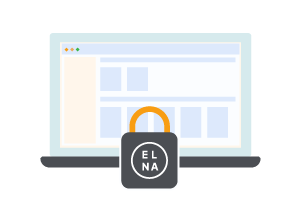
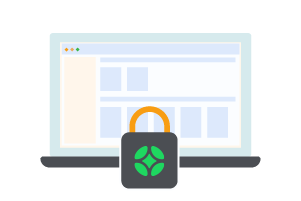
image and button ui updated

Changed region(s): [[0.4186, 0.6866, 0.5681, 0.8955]]

diff --git a/src/components/MySpace/Profile.tsx b/src/components/MySpace/Profile.tsx
@@ -8,7 +8,10 @@ import {
   useGetUserProfile,
   useUpdateUserProfile,
 } from "hooks/reactQuery/useUser";
-import { useIsDeveloper, useGetUserRequest } from "hooks/reactQuery/useDeveloper";
+import {
+  useIsDeveloper,
+  useGetUserRequest,
+} from "hooks/reactQuery/useDeveloper";
 import { Button, Form, Badge } from "react-bootstrap";
 import FormikInput from "components/common/FormikInput";
 import { Trans, useTranslation } from "react-i18next";
@@ -32,11 +35,15 @@ import { QUERY_KEYS } from "src/constants/query";
 function Profile() {
   const { t } = useTranslation();
   const wallet = useWallet();
-  const { data: userProfile, isFetching: isUserProfileLoading } = useGetUserProfile(wallet?.principalId);
-  const { mutate: addUserProfile, isPending: isAddProfileLoading } = useAddUserProfile();
-  const { mutate: updateProfile, isPending: isUpdateProfileLoading } = useUpdateUserProfile();
+  const { data: userProfile, isFetching: isUserProfileLoading } =
+    useGetUserProfile(wallet?.principalId);
+  const { mutate: addUserProfile, isPending: isAddProfileLoading } =
+    useAddUserProfile();
+  const { mutate: updateProfile, isPending: isUpdateProfileLoading } =
+    useUpdateUserProfile();
   const { data: isDeveloper, isFetching: isLoading } = useIsDeveloper();
-  const { data: userRequest, isFetching: isUserRequestLoading } = useGetUserRequest();
+  const { data: userRequest, isFetching: isUserRequestLoading } =
+    useGetUserRequest();
 
   const [formActive, setFormActive] = useState(false);
 
@@ -105,48 +112,48 @@ function Profile() {
             >
               {Object.keys(userRequest[0].status).join(",")}
             </p>
-          )
+          );
         }
-      }
-      else return (
-        <div className="d-flex align-items-center profile__body__roles__button">
-          <Button variant="outline">
-            <Link
-              to="/my-space/request/developer"
-              className="profile__body__roles__button-link"
-            >
-              <i className="ri-code-box-fill"></i>
-              {t("profile.requestDevAccess")}
-            </Link>
-          </Button>
-        </div>
-      );
+      } else
+        return (
+          <div className="d-flex align-items-center profile__body__roles__button">
+            <Button variant="outline">
+              <Link
+                to="/my-space/request/developer"
+                className="profile__body__roles__button-link"
+              >
+                <i className="ri-code-box-fill"></i>
+                {t("profile.requestDevAccess")}
+              </Link>
+            </Button>
+          </div>
+        );
     }
-    if (isDeveloper) return (
-      <a
-        className="btn btn-secondary user_profile__summary__req-card__x-share"
-        href={generateTwitterShareLink(
-          TWITTER_SHARE_CONTENT,
-          TWITTER_HASHTAGS
-        )}
-        target="_blank"
-        rel="noopener noreferrer"
-      >
-        <span>
-          <svg
-            xmlns="http://www.w3.org/2000/svg"
-            viewBox="0 0 24 24"
-            fill="currentColor"
-            className="user_profile__summary__req-card__x-share__svg"
-          >
-            <path d="M18.2048 2.25H21.5128L14.2858 10.51L22.7878 21.75H16.1308L10.9168 14.933L4.95084 21.75H1.64084L9.37084 12.915L1.21484 2.25H8.04084L12.7538 8.481L18.2048 2.25ZM17.0438 19.77H18.8768L7.04484 4.126H5.07784L17.0438 19.77Z"></path>
-          </svg>
-        </span>
-        <span className="text-xs sub-title-color">Share</span>
-      </a>
-
-    )
-  }
+    if (isDeveloper)
+      return (
+        <a
+          className="btn btn-secondary user_profile__summary__req-card__x-share"
+          href={generateTwitterShareLink(
+            TWITTER_SHARE_CONTENT,
+            TWITTER_HASHTAGS
+          )}
+          target="_blank"
+          rel="noopener noreferrer"
+        >
+          <span>
+            <svg
+              xmlns="http://www.w3.org/2000/svg"
+              viewBox="0 0 24 24"
+              fill="currentColor"
+              className="user_profile__summary__req-card__x-share__svg"
+            >
+              <path d="M18.2048 2.25H21.5128L14.2858 10.51L22.7878 21.75H16.1308L10.9168 14.933L4.95084 21.75H1.64084L9.37084 12.915L1.21484 2.25H8.04084L12.7538 8.481L18.2048 2.25ZM17.0438 19.77H18.8768L7.04484 4.126H5.07784L17.0438 19.77Z"></path>
+            </svg>
+          </span>
+          <span className="text-xs sub-title-color">Share Dev Profile</span>
+        </a>
+      );
+  };
 
   if (isUserProfileLoading) return <PageLoader />;
 
@@ -157,10 +164,10 @@ function Profile() {
           initialValues={
             userProfile
               ? {
-                bio: userProfile.bio[0] || "",
-                alias: userProfile.alias,
-                xHandle: userProfile.xHandle[0] || "",
-              }
+                  bio: userProfile.bio[0] || "",
+                  alias: userProfile.alias,
+                  xHandle: userProfile.xHandle[0] || "",
+                }
               : USER_PROFILE_FORM_INITIAL
           }
           validationSchema={USER_PROFILE_FORM_VALIDATION}
@@ -184,8 +191,8 @@ function Profile() {
                 <div className="profile__header__button">
                   <Button
                     onClick={() => {
-                      handleReset()
-                      setFormActive(!formActive)
+                      handleReset();
+                      setFormActive(!formActive);
                     }}
                     variant="secondary"
                   >
@@ -196,16 +203,24 @@ function Profile() {
 
               <div className="profile__body">
                 <div className="profile__body__alias">
-                  <h2 className="profile__body__alias__heading">{userProfile?.alias}</h2>
+                  <h2 className="profile__body__alias__heading">
+                    {userProfile?.alias}
+                  </h2>
                 </div>
 
-                <div onClick={copyToClipBoard} className="profile__body__principal">
+                <div
+                  onClick={copyToClipBoard}
+                  className="profile__body__principal"
+                >
                   <i className="ri-file-copy-line"></i>
                   Principal Id {displayAddress}
                 </div>
 
                 <div className="profile__body__roles">
-                  <div style={{ minHeight: "38px" }} className="d-flex align-items-center gap-2">
+                  <div
+                    style={{ minHeight: "38px" }}
+                    className="d-flex align-items-center gap-2"
+                  >
                     <p>{t("profile.roles")}</p>
                     <p className="d-flex gap-2">
                       <Badge bg="secondary">
@@ -231,7 +246,7 @@ function Profile() {
                       <Trans
                         i18nKey="profile.update.form.aliasLabel"
                         components={{
-                          span: <span className="add-profile__form__label" />
+                          span: <span className="add-profile__form__label" />,
                         }}
                       />
                     }
@@ -245,7 +260,7 @@ function Profile() {
                       <Trans
                         i18nKey="profile.update.form.xHandleLabel"
                         components={{
-                          span: <span className="add-profile__form__label" />
+                          span: <span className="add-profile__form__label" />,
                         }}
                       />
                     }
@@ -262,30 +277,28 @@ function Profile() {
                   />
                 </fieldset>
               </div>
-              {
-                formActive && (
-                  <div className="d-flex gap-2 justify-content-end">
-                    <Button
-                      onClick={() => {
-                        handleReset()
-                        setFormActive(false)
-                      }}
-                      variant="secondary"
-                    >
-                      Cancel
-                    </Button>
-                    <LoadingButton
-                      label={"Save"}
-                      isDisabled={
-                        isAddProfileLoading || isUpdateProfileLoading || !dirty
-                      }
-                      isLoading={isAddProfileLoading || isUpdateProfileLoading}
-                      type="submit"
-                      variant="secondary"
-                    />
-                  </div>
-                )
-              }
+              {formActive && (
+                <div className="d-flex gap-2 justify-content-end">
+                  <Button
+                    onClick={() => {
+                      handleReset();
+                      setFormActive(false);
+                    }}
+                    variant="secondary"
+                  >
+                    Cancel
+                  </Button>
+                  <LoadingButton
+                    label={"Save"}
+                    isDisabled={
+                      isAddProfileLoading || isUpdateProfileLoading || !dirty
+                    }
+                    isLoading={isAddProfileLoading || isUpdateProfileLoading}
+                    type="submit"
+                    variant="primary"
+                  />
+                </div>
+              )}
             </Form>
           )}
         </Formik>

diff --git a/src/stylesheets/pages/_my_space.scss b/src/stylesheets/pages/_my_space.scss
@@ -67,7 +67,6 @@
         .btn-outline {
           display: flex;
           align-items: center;
-          gap: 4px;
           color: var(--primary-color);
           border: 1px solid var(--primary-color);
           padding: 8px 16px;
@@ -77,6 +76,10 @@
               color: var(--elna-primary-text-color) !important;
             }
           }
+        }
+        &-link {
+          gap: 4px;
+          display: flex;
         }
       }
     }
